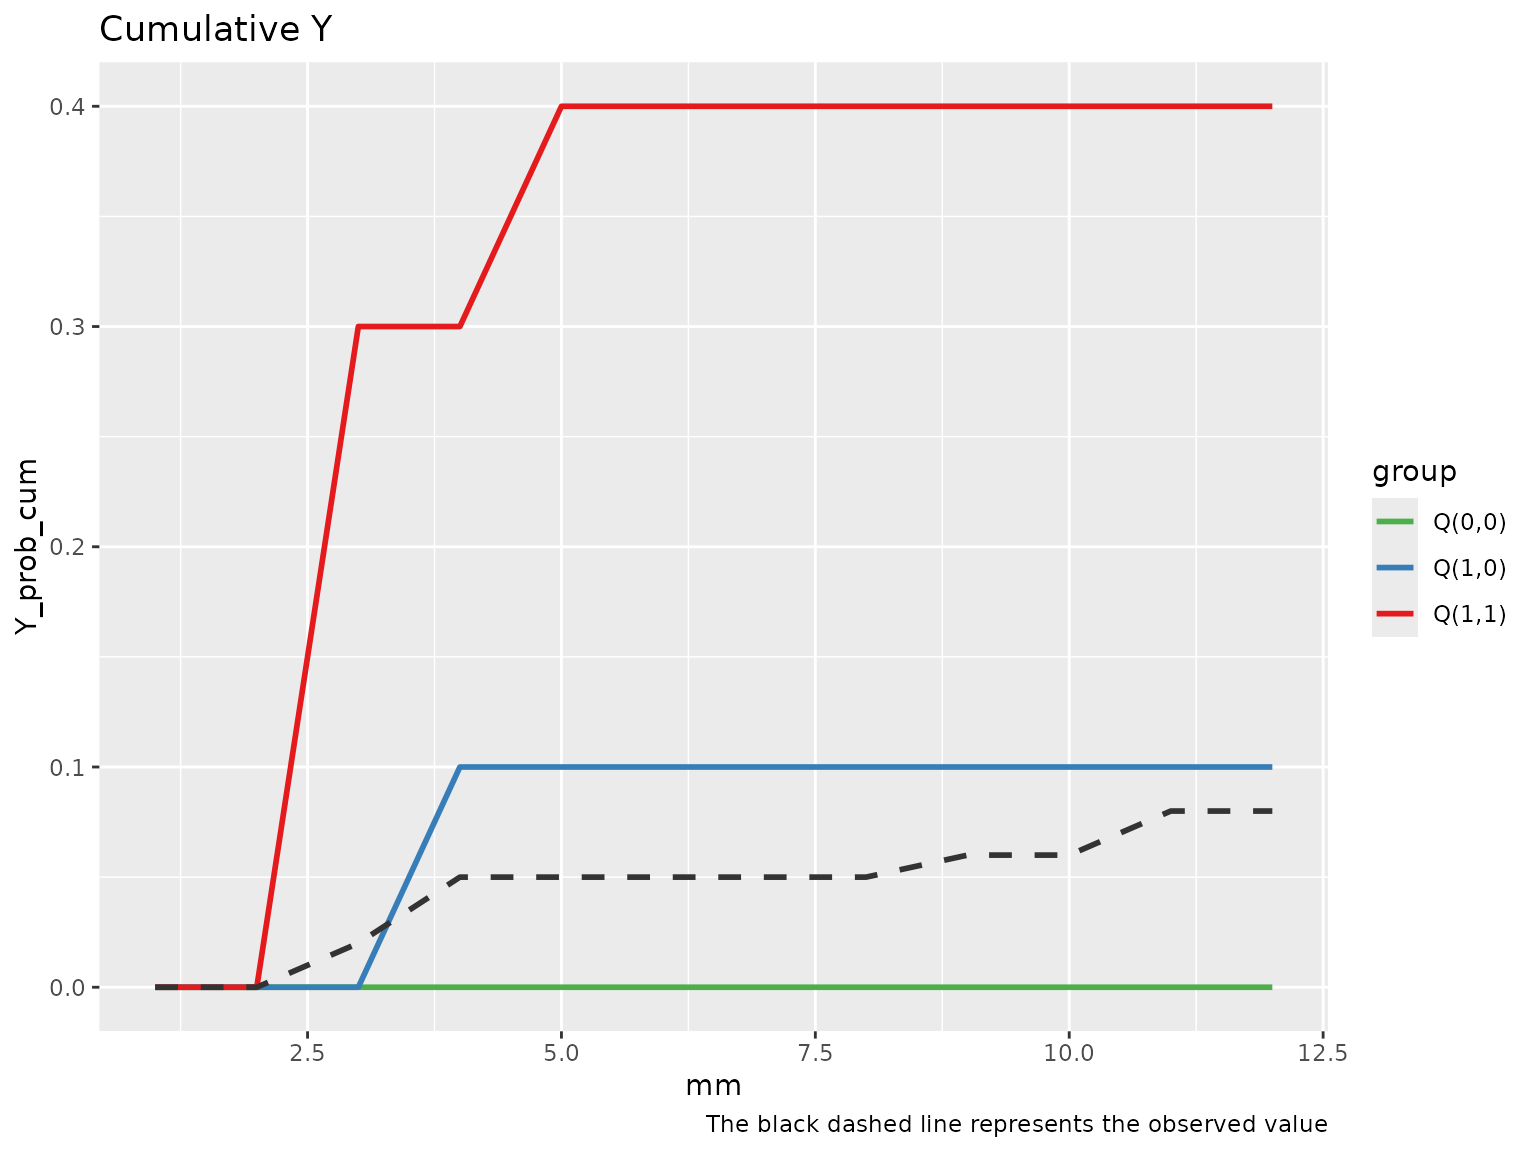
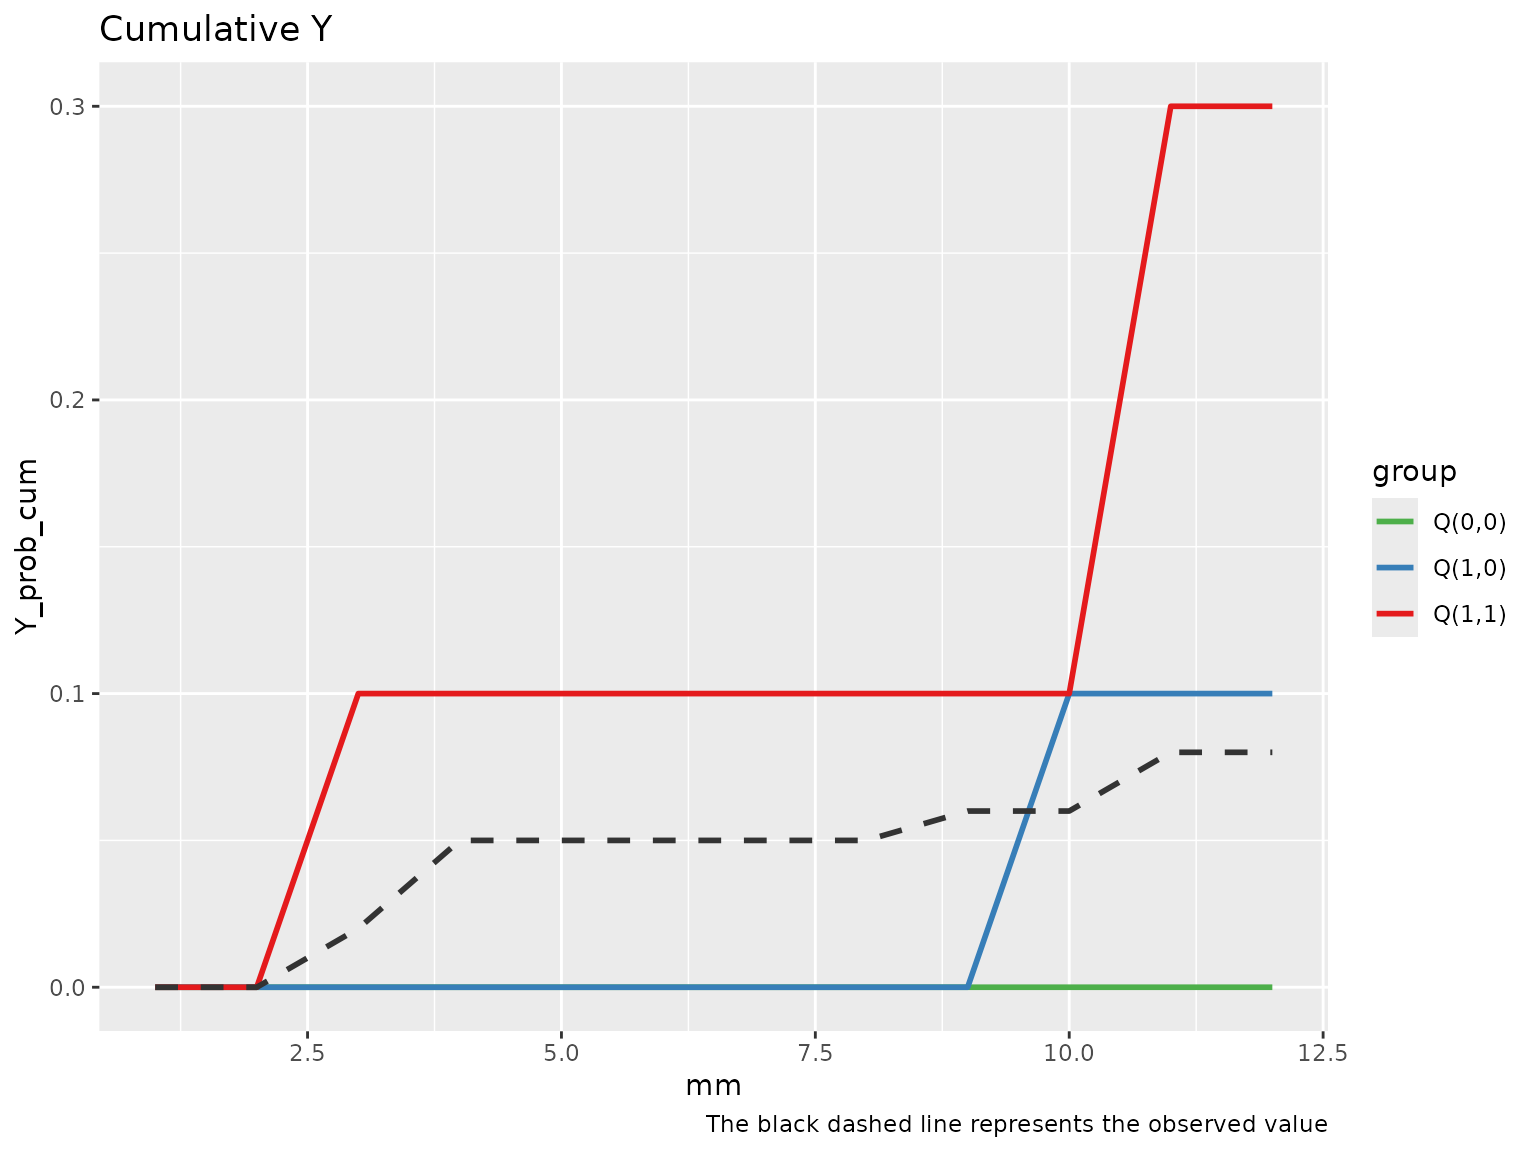
Deploying to gh-pages from @ causalepi/tvmedg@589fd3ad92d8ce8fe3454a7912e76a1c9eac5d01 🚀

diff --git a/articles/sing_med2.html b/articles/sing_med2.html
@@ -146,6 +146,19 @@ using 1000 Monte Carlo samples.</p>
 <span></span>
 <span><span class="va">cl</span> <span class="op">&lt;-</span> <span class="fu"><a href="https://rdrr.io/r/parallel/makeCluster.html" class="external-link">makeCluster</a></span><span class="op">(</span><span class="fl">2</span><span class="op">)</span></span>
 <span><span class="fu"><a href="https://rdrr.io/pkg/doParallel/man/registerDoParallel.html" class="external-link">registerDoParallel</a></span><span class="op">(</span><span class="va">cl</span><span class="op">)</span></span>
+<span></span>
+<span><span class="fu"><a href="https://rdrr.io/r/parallel/clusterApply.html" class="external-link">clusterEvalQ</a></span><span class="op">(</span><span class="va">cl</span>, <span class="op">{</span></span>
+<span>  <span class="kw"><a href="https://rdrr.io/r/base/library.html" class="external-link">library</a></span><span class="op">(</span><span class="va"><a href="https://causalepi.github.io/tvmedg/">tvmedg</a></span><span class="op">)</span></span>
+<span><span class="op">}</span><span class="op">)</span></span>
+<span><span class="co">#&gt; [[1]]</span></span>
+<span><span class="co">#&gt; [1] "tvmedg"    "stats"     "graphics"  "grDevices" "utils"     "datasets" </span></span>
+<span><span class="co">#&gt; [7] "methods"   "base"     </span></span>
+<span><span class="co">#&gt; </span></span>
+<span><span class="co">#&gt; [[2]]</span></span>
+<span><span class="co">#&gt; [1] "tvmedg"    "stats"     "graphics"  "grDevices" "utils"     "datasets" </span></span>
+<span><span class="co">#&gt; [7] "methods"   "base"</span></span>
+<span></span>
+<span></span>
 <span><span class="va">med_MtoL</span> <span class="op">&lt;-</span> <span class="fu"><a href="../reference/tvmedg.html">tvmedg</a></span><span class="op">(</span>data <span class="op">=</span> <span class="va">sim_data</span>,</span>
 <span>                   basec <span class="op">=</span> <span class="fu"><a href="https://rdrr.io/r/base/c.html" class="external-link">c</a></span><span class="op">(</span><span class="st">"age"</span>,<span class="st">"sex"</span>,<span class="st">"ow"</span>,<span class="st">"risk"</span><span class="op">)</span>,</span>
 <span>                   expo <span class="op">=</span> <span class="fu"><a href="https://rdrr.io/r/base/c.html" class="external-link">c</a></span><span class="op">(</span><span class="st">"Ap"</span><span class="op">)</span>,</span>
@@ -167,14 +180,14 @@ using 1000 Monte Carlo samples.</p>
 <span>                   montecarlo <span class="op">=</span> <span class="fl">10</span>,</span>
 <span>                   boot <span class="op">=</span> <span class="cn">F</span>,</span>
 <span>                   parallel <span class="op">=</span> <span class="cn">TRUE</span><span class="op">)</span></span>
-<span><span class="co">#&gt; Q(a,a): 0.4 </span></span>
+<span><span class="co">#&gt; Q(a,a): 0.3 </span></span>
 <span><span class="co">#&gt; Q(a,a*): 0.1 </span></span>
 <span><span class="co">#&gt; Q(a*,a*): 0 </span></span>
-<span><span class="co">#&gt; Indirect (rIE): 0.3 </span></span>
+<span><span class="co">#&gt; Indirect (rIE): 0.2 </span></span>
 <span><span class="co">#&gt; Direct (rDE): 0.1 </span></span>
-<span><span class="co">#&gt; Total (rTE): 0.4 </span></span>
-<span><span class="co">#&gt; Proportional explain: 0.75 </span></span>
-<span><span class="co">#&gt; Total time elapsed: 4.657589 secs</span></span>
+<span><span class="co">#&gt; Total (rTE): 0.3 </span></span>
+<span><span class="co">#&gt; Proportional explain: 0.667 </span></span>
+<span><span class="co">#&gt; Total time elapsed: 4.805123 secs</span></span>
 <span><span class="fu"><a href="https://rdrr.io/r/parallel/makeCluster.html" class="external-link">stopCluster</a></span><span class="op">(</span><span class="va">cl</span><span class="op">)</span></span></code></pre></div>
 </div>
 <div class="section level3">
@@ -215,14 +228,14 @@ example, we run only 5 bootstrap iterations.</p>
 <span>                   nboot <span class="op">=</span> <span class="fl">5</span>,</span>
 <span>                   ci <span class="op">=</span> <span class="fl">.95</span>,</span>
 <span>                   parallel <span class="op">=</span> <span class="cn">TRUE</span><span class="op">)</span></span>
-<span><span class="co">#&gt; Q(a,a): 0.6 (0.06, 1) </span></span>
+<span><span class="co">#&gt; Q(a,a): 0.7 (0.05, 1) </span></span>
 <span><span class="co">#&gt; Q(a,a*): 0.6 (0.01, 1) </span></span>
 <span><span class="co">#&gt; Q(a*,a*): 0 (0, 0.55) </span></span>
-<span><span class="co">#&gt; Indirect (rIE): 0 (0, 0.73) </span></span>
+<span><span class="co">#&gt; Indirect (rIE): 0.1 (0, 0.63) </span></span>
 <span><span class="co">#&gt; Direct (rDE): 0.6 (-0.54, 1) </span></span>
-<span><span class="co">#&gt; Total (rTE): 0.6 (-0.48, 1) </span></span>
-<span><span class="co">#&gt; Proportional explain: 0 (0, 0.917) </span></span>
-<span><span class="co">#&gt; Total time elapsed: 20.95784 secs</span></span>
+<span><span class="co">#&gt; Total (rTE): 0.7 (-0.49, 1) </span></span>
+<span><span class="co">#&gt; Proportional explain: 0.143 (0, 0.9) </span></span>
+<span><span class="co">#&gt; Total time elapsed: 22.34565 secs</span></span>
 <span><span class="fu"><a href="https://rdrr.io/r/parallel/makeCluster.html" class="external-link">stopCluster</a></span><span class="op">(</span><span class="va">cl</span><span class="op">)</span></span></code></pre></div>
 </div>
 <div class="section level3">
